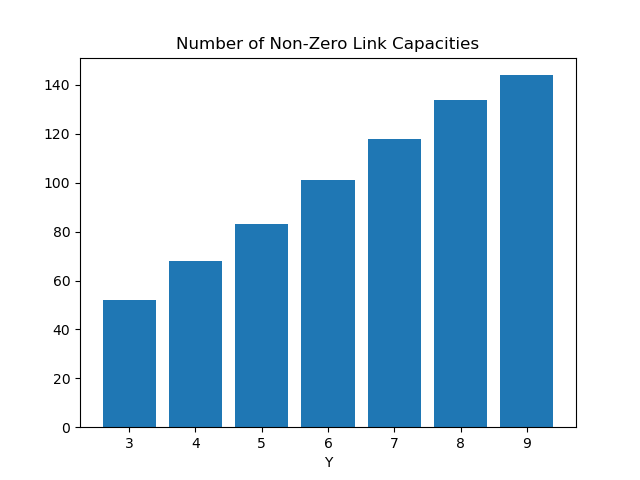
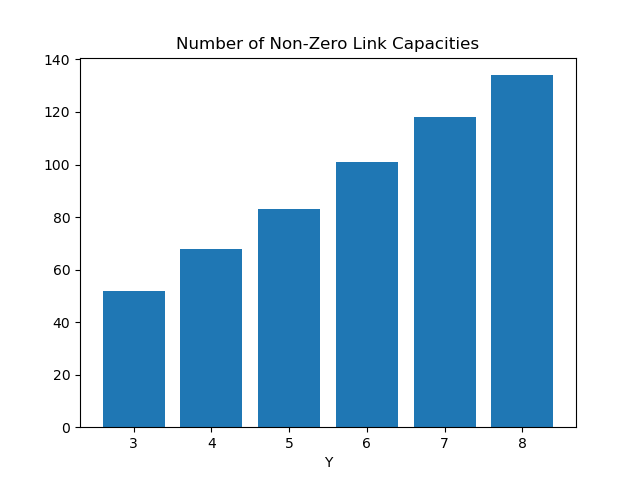
removed 9th Y

diff --git a/src/lp_csv.py b/src/lp_csv.py
@@ -66,6 +66,5 @@ if __name__ == "__main__":
     openFile(6)
     openFile(7)
     openFile(8)
-    openFile(9)
 
     print("Saved CSV data to '{}'".format(sys.argv[2]))
